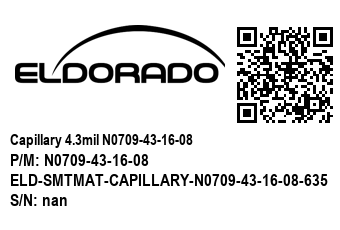
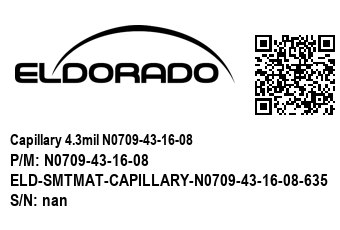
changes

Changed region(s): [[0.6471, 0.0913, 1.0, 0.5478]]

diff --git a/inventory_summary.py b/inventory_summary.py
@@ -100,43 +100,53 @@ for item in with_pn:
     i+=1;
 
 
+try:
+    i = 0;
+    for item in with_pn:
+        print(item)
+        print(i)
+        if( math.isnan(w_gu[i]) ):
+            w_gu[i] = 0;
+        if( math.isnan(w_pj1[i]) ):
+            w_pj1[i] = 0;
+        if( math.isnan(w_pj2[i]) ):
+            w_pj2[i] = 0;
+        if( math.isnan(w_pj3[i]) ):
+            w_pj3[i] = 0;
+        if( math.isnan(w_pj4[i]) ):
+            w_pj4[i] = 0;
 
-i = 0;
-for item in with_pn:
-    if( math.isnan(w_gu[i]) ):
-        w_gu[i] = 0;
-    if( math.isnan(w_pj1[i]) ):
-        w_pj1[i] = 0;
-    if( math.isnan(w_pj2[i]) ):
-        w_pj2[i] = 0;
-    if( math.isnan(w_pj3[i]) ):
-        w_pj3[i] = 0;
-    if( math.isnan(w_pj4[i]) ):
-        w_pj4[i] = 0;
+        print(w_pn[i], w_gu[i], w_pj1[i], w_pj2[i], w_pj3[i], w_pj4[i]);
+        i+=1;
 
-    print(w_pn[i], w_gu[i], w_pj1[i], w_pj2[i], w_pj3[i], w_pj4[i]);
-    i+=1;
+    i = 0;
+except:
+    print("Something is not working properly!");
 
-i = 0;
-for item_inv in inv_PN:
-    j = 0;
-    for item_with in w_pn:
-        if( with_pn[j] == item_inv ):
-            inv_fqty[i] = inv_fqty[i] - w_gu[j] - w_pj1[j] - w_pj2[j] - w_pj3[j] - w_pj4[j];
-            inv_gu[i] = inv_gu[i] + w_gu[j];
-            inv_pj1[i] = inv_pj1[i] + w_pj1[j];
-            inv_pj2[i] = inv_pj2[i] + w_pj2[j];
-            inv_pj3[i] = inv_pj3[i] + w_pj3[j];
-            inv_pj4[i] = inv_pj4[i] + w_pj4[j];
-        j+=1;
-    i+=1;
+try:
+    for item_inv in inv_PN:
+        j = 0;
+        for item_with in w_pn:
+            if( with_pn[j] == item_inv ):
+                inv_fqty[i] = inv_fqty[i] - w_gu[j] - w_pj1[j] - w_pj2[j] - w_pj3[j] - w_pj4[j];
+                inv_gu[i] = inv_gu[i] + w_gu[j];
+                inv_pj1[i] = inv_pj1[i] + w_pj1[j];
+                inv_pj2[i] = inv_pj2[i] + w_pj2[j];
+                inv_pj3[i] = inv_pj3[i] + w_pj3[j];
+                inv_pj4[i] = inv_pj4[i] + w_pj4[j];
+            j+=1;
+        i+=1;
 
+    i=0;
+except:
+    print('Something is not working properly!');
 
-i=0;
-for item in inv_item:
-    print(inv_item[i], inv_desc[i], inv_PN[i], inv_unit[i], inv_quty[i], inv_fqty[i], inv_gu[i], inv_pj1[i], inv_pj2[i], inv_pj3[i], inv_pj4[i]);
-    i+=1;
-
+try:
+    for item in inv_item:
+        print(inv_item[i], inv_desc[i], inv_PN[i], inv_unit[i], inv_quty[i], inv_fqty[i], inv_gu[i], inv_pj1[i], inv_pj2[i], inv_pj3[i], inv_pj4[i]);
+        i+=1;
+except:
+    print('Something is not working properly!');
 
 book = load_workbook(excel_file);
 

diff --git a/functions_test.py b/functions_test.py
@@ -14,8 +14,14 @@ delete_temp_files = False;
 adhesive_tag_34x23(file_name, data_pd, data_model, data_item, data_pn, data_sn, delete_temp_files);
 '''
 
-import barcode
+#import barcode
+##import treepoem #treepoem usa o ghostscript
+import code128
 
-cd128 = barcode.get_barcode_class('code128');
-codigo = cd128('ELD-SMTMAT-CAPILLARY-CAPH85CD115-479');
-fullname = codigo.save('filename');
+code128.image("ELD-SMTMAT-CAPILLARY-CAPH85CD115-479").save("Hello World.png")  # with PIL present
+
+##img_barcode = treepoem.generate_barcode('code128','ELD-SMTMAT-CAPILLARY-CAPH85CD115-479');
+##img_barcode.convert('1').save('filename.png')
+#cd128 = barcode.get_barcode_class('code128');
+#codigo = cd128('ELD-SMTMAT-CAPILLARY-CAPH85CD115-479');
+#fullname = codigo.save('filename');

diff --git a/qr_functions.py b/qr_functions.py
@@ -197,7 +197,7 @@ def adhesive_tag_34x23(file_name, data_pd, data_model, data_item, data_pn, data_
     qrcode.png('images/base_imgs_'+size+'/temp_imgs/'+data_item+'_qrcode.png', scale=6); #Salva o qr code gerado no caminho indicado
 
     qrcode_img = Image.open('images/base_imgs_'+size+'/temp_imgs/'+data_item+'_qrcode.png'); #abre a img de qrcode gerada e salva
-    qrcode_img.thumbnail((120,120)); #redimensiona para 210p por 210p
+    qrcode_img.thumbnail((80,80)); #redimensiona para 210p por 210p
     qrcode_img.save('images/base_imgs_'+size+'/temp_imgs/'+data_item+'_qrcode_resized.png'); #salva o qrcode redimensionado
     qrcode_img_resized = Image.open('images/base_imgs_'+size+'/temp_imgs/'+data_item+'_qrcode_resized.png'); #reabre a imagem redimensionada 
 

diff --git a/qr_generator.py b/qr_generator.py
@@ -25,9 +25,9 @@ number_of_itens = data[col_names[1]].values;
 # [3]75x25 
 # [4]100x80
 
-tag = 4; # [1]34x23 [2]50x30 [3]75x25 [4]100x80
-itens = [865,866];
-#itens = np.arange(536,636,1);
+tag = 3; # [1]34x23 [2]50x30 [3]75x25 [4]100x80
+itens = [864];
+#itens = np.arange(869,877,1);
 
 #itens = np.arange(152);
 
